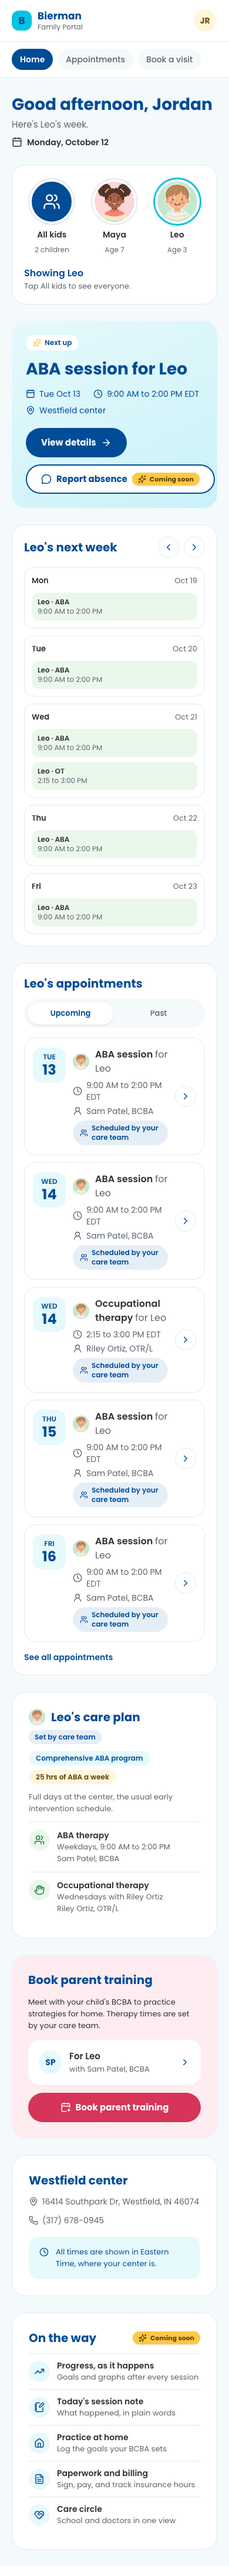
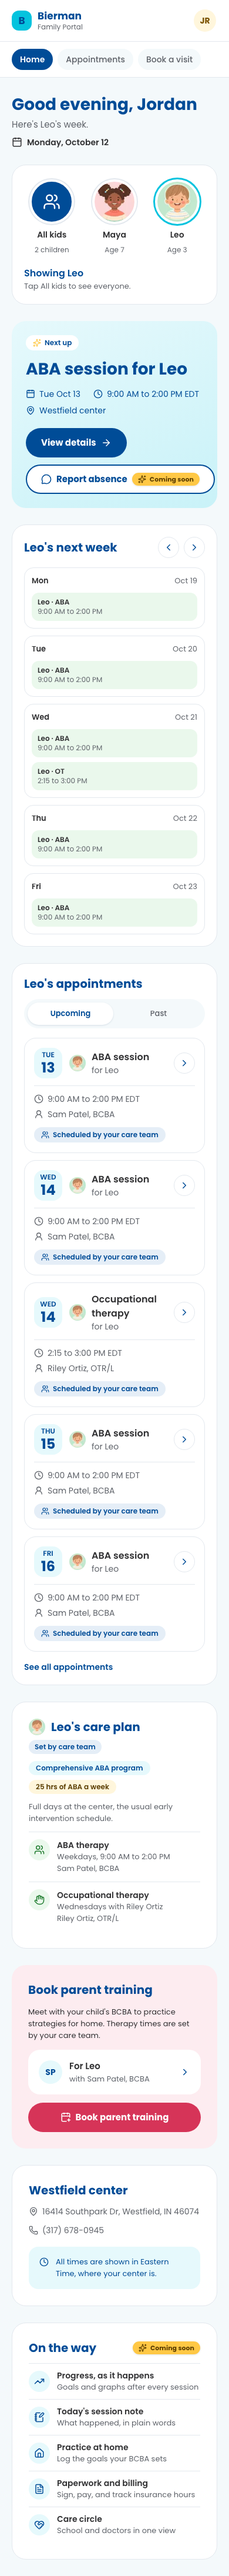
Give appointment cards a stacked layout on mobile

diff --git a/components/ui/AppointmentRow.tsx b/components/ui/AppointmentRow.tsx
@@ -35,22 +35,28 @@ export function AppointmentRow({
   badgeLabel,
   href,
 }: AppointmentRowProps) {
+  // Mobile: a grid. The date, title, and arrow share the top row, and the
+  // time, provider, and badge get the full card width underneath, so
+  // nothing has to wrap into a narrow middle column. From md up it's one row.
   return (
-    <article className="relative flex items-start gap-3 rounded-row border border-line bg-white px-3.5 py-4 transition-colors hover:border-navy-tint md:items-center md:gap-5 md:px-5 md:py-4.5">
-      <div className="flex h-15 w-14 shrink-0 flex-col items-center justify-center rounded-banner bg-aqua-tint text-navy md:h-18 md:w-17">
+    <article className="relative grid grid-cols-[auto_minmax(0,1fr)_auto] items-center gap-x-3 gap-y-3 rounded-row border border-line bg-white p-4 transition-colors hover:border-navy-tint md:flex md:gap-5 md:px-5 md:py-4.5">
+      <div className="col-start-1 row-start-1 flex h-13 w-12 shrink-0 flex-col items-center justify-center rounded-banner bg-aqua-tint text-navy md:h-18 md:w-17">
         <span className="text-tiny font-semibold uppercase">{weekday}</span>
         <span className="text-date">{day}</span>
       </div>
 
-      <div className="flex min-w-0 flex-1 flex-col gap-1.5">
-        <div className="flex min-w-0 items-center gap-2.5">
+      {/* "contents" on mobile lets the title and details sit in the grid. */}
+      <div className="contents md:flex md:min-w-0 md:flex-1 md:flex-col md:gap-1.5">
+        <div className="col-start-2 row-start-1 flex min-w-0 items-center gap-2.5">
           <KidAvatar firstName={childFirstName} size={28} />
           <h3 className="min-w-0 text-h3 text-ink">
             {title}{" "}
-            <span className="font-normal text-muted">for {childFirstName}</span>
+            <span className="block text-label font-normal text-muted md:inline md:text-h3 md:font-normal">
+              for {childFirstName}
+            </span>
           </h3>
         </div>
-        <div className="flex flex-wrap items-center gap-x-5 gap-y-1 text-label font-normal text-muted">
+        <div className="col-span-3 row-start-2 flex flex-wrap items-center gap-x-4 gap-y-1.5 border-t border-line pt-3 text-label font-normal text-muted md:gap-x-5 md:border-0 md:pt-0">
           <span className="flex items-center gap-1.75">
             <Icon name="time" size={16} />
             {timeRange}
@@ -60,7 +66,7 @@ export function AppointmentRow({
             {provider}
           </span>
         </div>
-        <div className="md:hidden">
+        <div className="col-span-3 row-start-3 md:hidden">
           <Badge kind={badge}>{badgeLabel}</Badge>
         </div>
       </div>
@@ -72,7 +78,7 @@ export function AppointmentRow({
       <Link
         href={href}
         aria-label={`View details: ${title} for ${childFirstName}, ${weekday} ${day}, ${timeRange}`}
-        className="flex size-9 shrink-0 items-center justify-center self-center rounded-full border border-line bg-white text-navy transition-colors after:absolute after:inset-0 after:rounded-row hover:bg-navy-tint md:size-10.5"
+        className="col-start-3 row-start-1 flex size-9 shrink-0 items-center justify-center rounded-full border border-line bg-white text-navy transition-colors after:absolute after:inset-0 after:rounded-row hover:bg-navy-tint md:size-10.5"
       >
         <Icon name="next" />
       </Link>
